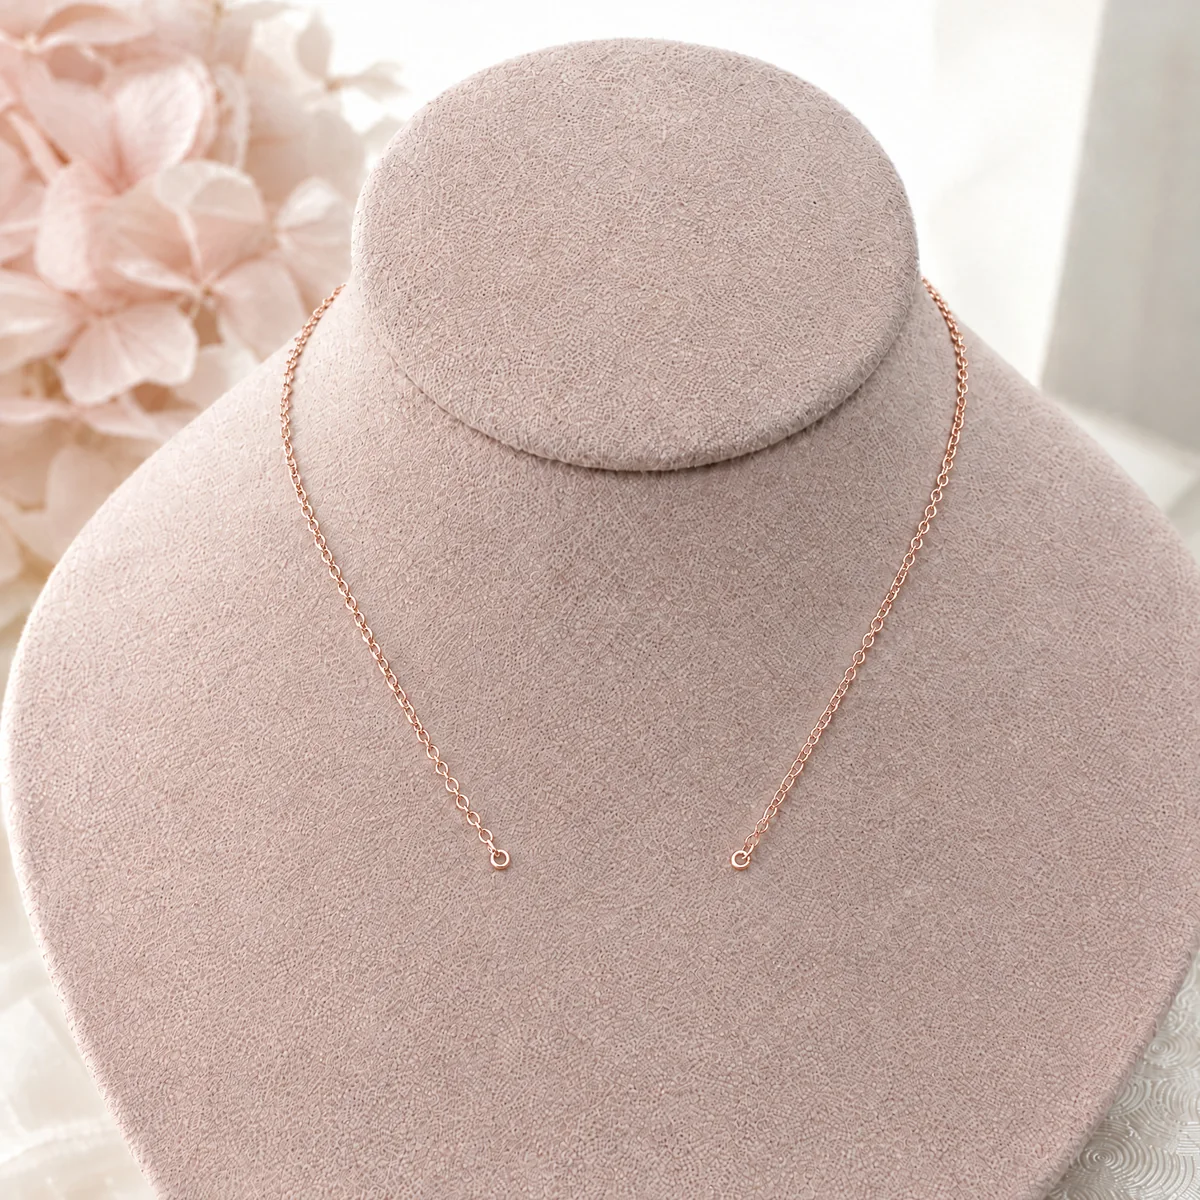
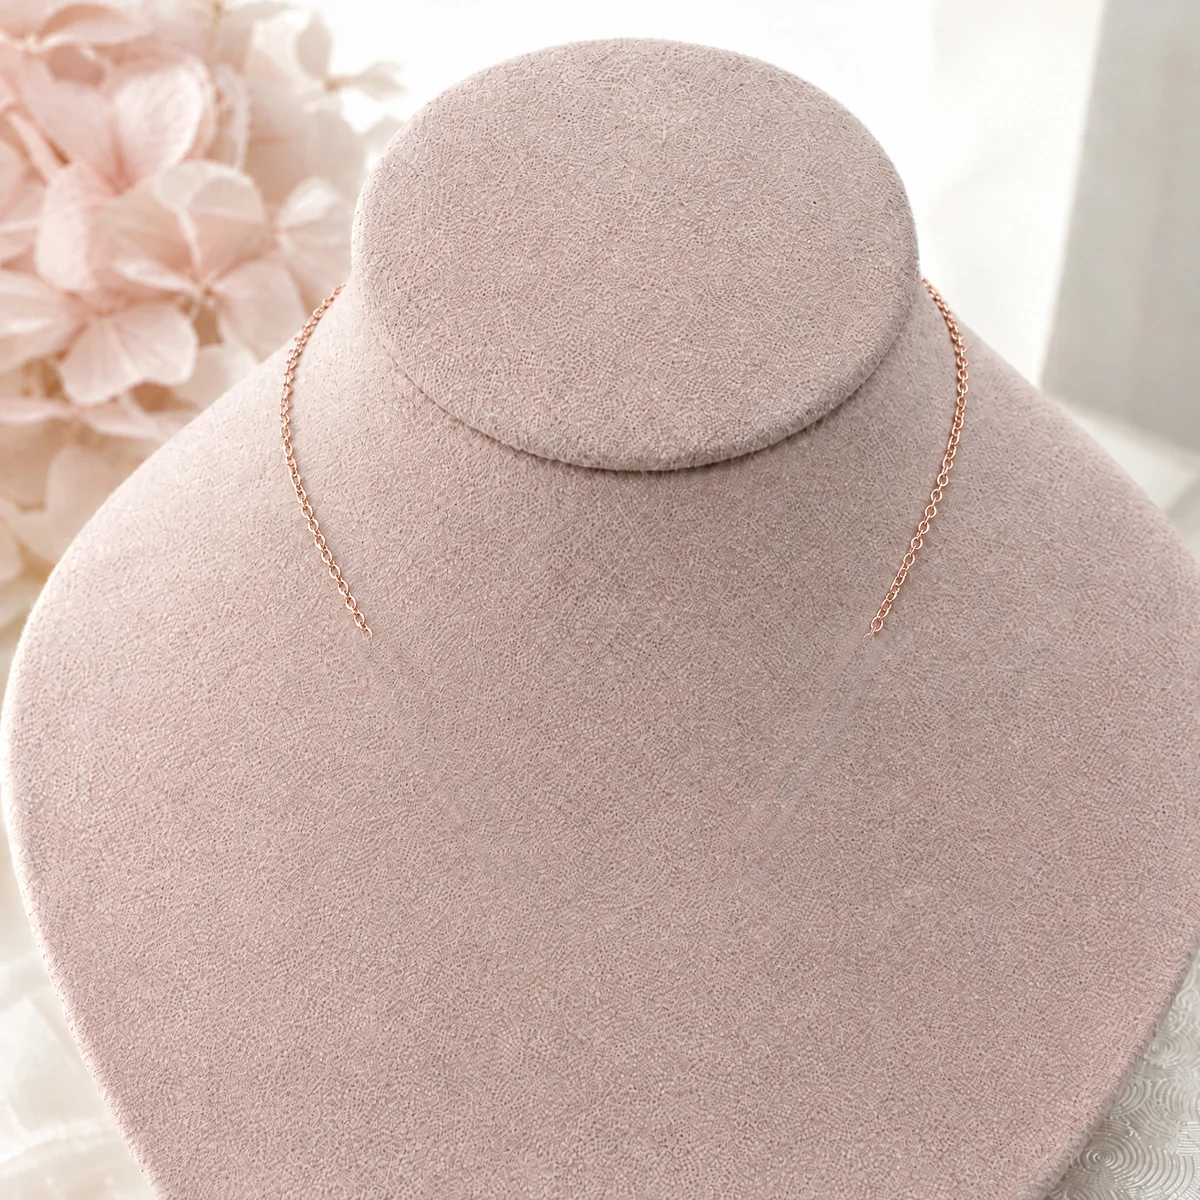
Collier prénom : la chaîne s'ouvre ou se resserre selon la longueur du prénom
Claude-Session: https://claude.ai/code/session_01LJGEE9ZZTXk46cNfc94DdH

diff --git a/theme-lou/assets/lou-produit.js b/theme-lou/assets/lou-produit.js
@@ -34,9 +34,12 @@
     scene.appendChild(bullePhoto);
   }
 
-  /* --- Collier prénom : prénom en métal accroché entre les deux anneaux de la chaîne ---
-     Anneaux mesurés sur assets/collier-vierge*.webp (1200 px) : gauche (501, 860), droite (740, 859), rayon ≈ 8. */
+  /* --- Collier prénom : prénom en métal, la chaîne s'accroche aux deux bords du prénom ---
+     Sur assets/collier-vierge*.webp (1200 px), le bas des deux brins est effacé (sous y ≈ 630, cf. scripts/assets_theme.py) :
+     les brins sont redessinés depuis la vraie chaîne jusqu'à la première et la dernière lettre. Prénom court : la chaîne se
+     resserre ; prénom long : elle s'ouvre. La taille des lettres ne dépend pas de la longueur du prénom. */
   var METAL = { "Argentée": ["#ffffff", "#d9dbe2", "#9a9eaa", "#eef0f4", "#7c808c"], "Dorée": ["#fff6d2", "#f0cd72", "#b88a2c", "#ffe7a3", "#8a6420"], "Rosée": ["#fff0ea", "#f2bfae", "#c4806f", "#ffd9cc", "#975c4f"] };
+  var BRIN = { g: { x: 361, y: 626, dx: .45 }, d: { x: 879, y: 626, dx: -.5 } };   // départ des brins redessinés + direction
   function dessinerPrenom(nom, pol) {
     if (!toile || !photo.complete || !photo.naturalWidth) return;
     var W = toile.clientWidth, dpr = Math.min(window.devicePixelRatio || 1, 2.5);
@@ -44,35 +47,63 @@
     var s = toile.width / 1200, ctx = toile.getContext("2d"); ctx.clearRect(0, 0, toile.width, toile.height);
     if (!nom) return;
     var m = METAL[finition] || METAL["Argentée"];
-    var G = { x: 501, y: 860 }, D = { x: 740, y: 859 }, rA = 8;
     var script = pol !== "Moderne", font = script ? '"Great Vibes", cursive' : '700 {t}px Montserrat, Arial, sans-serif';
     var css = function (t) { return script ? t + "px " + font : font.replace("{t}", t); };
     ctx.font = css(100);
     var mt = ctx.measureText(nom), L = mt.actualBoundingBoxLeft || 0, Rr = mt.actualBoundingBoxRight || mt.width;
     var asc = mt.actualBoundingBoxAscent || 70, desc = mt.actualBoundingBoxDescent || 20;
-    var largeurDispo = (D.x - G.x) - 2 * rA - 10, hMax = script ? 92 : 44;
-    var k = Math.min(largeurDispo / (L + Rr), hMax / (asc + desc), script ? 1.15 : .62);
-    var fs = 100 * k, encre = (L + Rr) * k, cx = (G.x + D.x) / 2;
-    var base = G.y + (script ? .2 : .36) * fs;
-    var xg = cx - encre / 2, xd = cx + encre / 2, yAttache = base - (script ? .22 : .36) * fs;
+    var hMax = script ? 92 : 44;
+    var k = Math.min(hMax / (asc + desc), script ? 1.15 : .62);
+    if ((L + Rr) * k > 560) k = 560 / (L + Rr);            // garde-fou (prénom très long) : reste sur le buste
+    var fs = 100 * k, encre = (L + Rr) * k, cx = 620.5;
+    var base = 860 + (script ? .2 : .36) * fs;
+    var xg = cx - encre / 2, yAttache = base - (script ? .22 : .36) * fs;
+    var px = xg + L * k;
+    // Bords réels du prénom à hauteur d'accroche (premier et dernier pixel d'encre)
+    var mes = document.createElement("canvas"); mes.width = 1200; mes.height = 1200; var mx = mes.getContext("2d");
+    mx.font = css(fs.toFixed(2)); mx.textBaseline = "alphabetic"; mx.lineJoin = "round"; mx.lineWidth = fs * (script ? .055 : .03);
+    mx.fillStyle = mx.strokeStyle = "#000"; mx.strokeText(nom, px, base); mx.fillText(nom, px, base);
+    var y0 = Math.max(0, Math.round(yAttache - fs * .16)), y1 = Math.min(1199, Math.round(yAttache + fs * .16));
+    var zx0 = Math.max(0, Math.floor(xg - 20)), zw = Math.min(1200 - zx0, Math.ceil(encre + 40));
+    var dat = mx.getImageData(zx0, y0, zw, y1 - y0 + 1).data, ag = null, ad = null;
+    for (var yy = 0; yy <= y1 - y0; yy++) for (var xx = 0; xx < zw; xx++) if (dat[(yy * zw + xx) * 4 + 3] > 140) {
+      if (!ag || xx + zx0 < ag.x) ag = { x: xx + zx0, y: yy + y0 };
+      if (!ad || xx + zx0 > ad.x) ad = { x: xx + zx0, y: yy + y0 };
+    }
+    ag = ag || { x: xg, y: yAttache }; ad = ad || { x: xg + encre, y: yAttache };
+    var rA = 6.5, RG = { x: ag.x - rA + 2, y: ag.y }, RD = { x: ad.x + rA - 2, y: ad.y };
     // calque métal (en pixels de l'image 1200, puis mis à l'échelle)
     var c = document.createElement("canvas"); c.width = toile.width; c.height = toile.height; var x = c.getContext("2d");
     x.scale(s, s);
-    // bouts de chaîne si le prénom est plus court que l'écart entre les anneaux
-    var chainette = function (a, bx, by) {
-      var dx = bx - a.x, dy = by - a.y, d = Math.hypot(dx, dy); if (d < 6) return;
-      var n = Math.floor(d / 6.5), ang = Math.atan2(dy, dx);
-      for (var i = 0; i < n; i++) {
-        var t = (i + .5) / n; x.save(); x.translate(a.x + dx * t, a.y + dy * t); x.rotate(ang);
-        x.beginPath(); x.ellipse(0, 0, 4.2, i % 2 ? 1.2 : 2.3, 0, 0, Math.PI * 2); x.lineWidth = 1.4; x.strokeStyle = m[2]; x.stroke(); x.restore();
+    // un brin : courbe douce depuis la vraie chaîne jusqu'à l'anneau, maillons alternés (à plat / de profil)
+    var brin = function (b, R) {
+      var dl = Math.hypot(R.x - b.x, R.y - b.y), n0 = Math.hypot(b.dx, 1);
+      var Q = { x: b.x + b.dx / n0 * dl * .5, y: b.y + 1 / n0 * dl * .5 };
+      var pt = function (t) { var u = 1 - t; return { x: u * u * b.x + 2 * u * t * Q.x + t * t * R.x, y: u * u * b.y + 2 * u * t * Q.y + t * t * R.y }; };
+      var tab = [{ t: 0, l: 0, p: pt(0) }], N = 200;
+      for (var i = 1; i <= N; i++) { var q = pt(i / N); tab.push({ t: i / N, l: tab[i - 1].l + Math.hypot(q.x - tab[i - 1].p.x, q.y - tab[i - 1].p.y), p: q }); }
+      var Lt = tab[N].l - rA, pas = 10.5, n = Math.max(1, Math.round(Lt / pas)); pas = Lt / n;
+      var j = 0;
+      for (var kk = 0; kk < n; kk++) {
+        var l = (kk + .5) * pas; while (j < N && tab[j + 1].l < l) j++;
+        var a = tab[j].p, bb = tab[Math.min(N, j + 1)].p, ang = Math.atan2(bb.y - a.y, bb.x - a.x);
+        x.save(); x.translate(a.x, a.y); x.rotate(ang);
+        var ry = kk % 2 ? 1.3 : 3.6;
+        // maillon métal : contour foncé, corps clair, reflet blanc (même éclat que la chaîne de la photo)
+        x.beginPath(); x.ellipse(0, 0, 6.3, ry, 0, 0, Math.PI * 2); x.lineWidth = 2.5; x.strokeStyle = m[4]; x.globalAlpha = .55; x.stroke(); x.globalAlpha = 1;
+        x.beginPath(); x.ellipse(0, 0, 6.3, ry, 0, 0, Math.PI * 2); x.lineWidth = 1.6; x.strokeStyle = m[1]; x.stroke();
+        x.beginPath(); x.ellipse(0, -.3, 6, Math.max(.6, ry - .3), 0, Math.PI * 1.1, Math.PI * 1.9); x.lineWidth = .9; x.strokeStyle = m[0]; x.stroke();
+        x.restore();
       }
+      // anneau d'accroche
+      x.beginPath(); x.arc(R.x, R.y, rA, 0, Math.PI * 2); x.lineWidth = 3; x.strokeStyle = m[4]; x.globalAlpha = .55; x.stroke(); x.globalAlpha = 1;
+      x.beginPath(); x.arc(R.x, R.y, rA, 0, Math.PI * 2); x.lineWidth = 2; x.strokeStyle = m[1]; x.stroke();
+      x.beginPath(); x.arc(R.x, R.y - .4, rA - .2, Math.PI * 1.1, Math.PI * 1.9); x.lineWidth = 1; x.strokeStyle = m[0]; x.stroke();
     };
-    chainette({ x: G.x + rA - 1, y: G.y }, xg + (script ? 4 : 1), yAttache);
-    chainette({ x: D.x - rA + 1, y: D.y }, xd - (script ? 4 : 1), yAttache);
+    brin(BRIN.g, RG); brin(BRIN.d, RD);
     x.font = css(fs.toFixed(2)); x.textBaseline = "alphabetic"; x.lineJoin = "round";
     var gr = x.createLinearGradient(0, base - asc * k, 0, base + desc * k);
     gr.addColorStop(0, m[0]); gr.addColorStop(.35, m[1]); gr.addColorStop(.6, m[3]); gr.addColorStop(1, m[2]);
-    var px = xg + L * k;
     x.lineWidth = fs * (script ? .055 : .03); x.strokeStyle = gr; x.fillStyle = gr;
     x.strokeText(nom, px, base); x.fillText(nom, px, base);
     // biseau : bord haut plus clair, bas plus sombre (copie décalée en « source-atop »)

diff --git a/theme/assets/lou-produit.js b/theme/assets/lou-produit.js
@@ -34,9 +34,12 @@
     scene.appendChild(bullePhoto);
   }
 
-  /* --- Collier prénom : prénom en métal accroché entre les deux anneaux de la chaîne ---
-     Anneaux mesurés sur assets/collier-vierge*.webp (1200 px) : gauche (501, 860), droite (740, 859), rayon ≈ 8. */
+  /* --- Collier prénom : prénom en métal, la chaîne s'accroche aux deux bords du prénom ---
+     Sur assets/collier-vierge*.webp (1200 px), le bas des deux brins est effacé (sous y ≈ 630, cf. scripts/assets_theme.py) :
+     les brins sont redessinés depuis la vraie chaîne jusqu'à la première et la dernière lettre. Prénom court : la chaîne se
+     resserre ; prénom long : elle s'ouvre. La taille des lettres ne dépend pas de la longueur du prénom. */
   var METAL = { "Argentée": ["#ffffff", "#d9dbe2", "#9a9eaa", "#eef0f4", "#7c808c"], "Dorée": ["#fff6d2", "#f0cd72", "#b88a2c", "#ffe7a3", "#8a6420"], "Rosée": ["#fff0ea", "#f2bfae", "#c4806f", "#ffd9cc", "#975c4f"] };
+  var BRIN = { g: { x: 361, y: 626, dx: .45 }, d: { x: 879, y: 626, dx: -.5 } };   // départ des brins redessinés + direction
   function dessinerPrenom(nom, pol) {
     if (!toile || !photo.complete || !photo.naturalWidth) return;
     var W = toile.clientWidth, dpr = Math.min(window.devicePixelRatio || 1, 2.5);
@@ -44,35 +47,63 @@
     var s = toile.width / 1200, ctx = toile.getContext("2d"); ctx.clearRect(0, 0, toile.width, toile.height);
     if (!nom) return;
     var m = METAL[finition] || METAL["Argentée"];
-    var G = { x: 501, y: 860 }, D = { x: 740, y: 859 }, rA = 8;
     var script = pol !== "Moderne", font = script ? '"Great Vibes", cursive' : '700 {t}px Montserrat, Arial, sans-serif';
     var css = function (t) { return script ? t + "px " + font : font.replace("{t}", t); };
     ctx.font = css(100);
     var mt = ctx.measureText(nom), L = mt.actualBoundingBoxLeft || 0, Rr = mt.actualBoundingBoxRight || mt.width;
     var asc = mt.actualBoundingBoxAscent || 70, desc = mt.actualBoundingBoxDescent || 20;
-    var largeurDispo = (D.x - G.x) - 2 * rA - 10, hMax = script ? 92 : 44;
-    var k = Math.min(largeurDispo / (L + Rr), hMax / (asc + desc), script ? 1.15 : .62);
-    var fs = 100 * k, encre = (L + Rr) * k, cx = (G.x + D.x) / 2;
-    var base = G.y + (script ? .2 : .36) * fs;
-    var xg = cx - encre / 2, xd = cx + encre / 2, yAttache = base - (script ? .22 : .36) * fs;
+    var hMax = script ? 92 : 44;
+    var k = Math.min(hMax / (asc + desc), script ? 1.15 : .62);
+    if ((L + Rr) * k > 560) k = 560 / (L + Rr);            // garde-fou (prénom très long) : reste sur le buste
+    var fs = 100 * k, encre = (L + Rr) * k, cx = 620.5;
+    var base = 860 + (script ? .2 : .36) * fs;
+    var xg = cx - encre / 2, yAttache = base - (script ? .22 : .36) * fs;
+    var px = xg + L * k;
+    // Bords réels du prénom à hauteur d'accroche (premier et dernier pixel d'encre)
+    var mes = document.createElement("canvas"); mes.width = 1200; mes.height = 1200; var mx = mes.getContext("2d");
+    mx.font = css(fs.toFixed(2)); mx.textBaseline = "alphabetic"; mx.lineJoin = "round"; mx.lineWidth = fs * (script ? .055 : .03);
+    mx.fillStyle = mx.strokeStyle = "#000"; mx.strokeText(nom, px, base); mx.fillText(nom, px, base);
+    var y0 = Math.max(0, Math.round(yAttache - fs * .16)), y1 = Math.min(1199, Math.round(yAttache + fs * .16));
+    var zx0 = Math.max(0, Math.floor(xg - 20)), zw = Math.min(1200 - zx0, Math.ceil(encre + 40));
+    var dat = mx.getImageData(zx0, y0, zw, y1 - y0 + 1).data, ag = null, ad = null;
+    for (var yy = 0; yy <= y1 - y0; yy++) for (var xx = 0; xx < zw; xx++) if (dat[(yy * zw + xx) * 4 + 3] > 140) {
+      if (!ag || xx + zx0 < ag.x) ag = { x: xx + zx0, y: yy + y0 };
+      if (!ad || xx + zx0 > ad.x) ad = { x: xx + zx0, y: yy + y0 };
+    }
+    ag = ag || { x: xg, y: yAttache }; ad = ad || { x: xg + encre, y: yAttache };
+    var rA = 6.5, RG = { x: ag.x - rA + 2, y: ag.y }, RD = { x: ad.x + rA - 2, y: ad.y };
     // calque métal (en pixels de l'image 1200, puis mis à l'échelle)
     var c = document.createElement("canvas"); c.width = toile.width; c.height = toile.height; var x = c.getContext("2d");
     x.scale(s, s);
-    // bouts de chaîne si le prénom est plus court que l'écart entre les anneaux
-    var chainette = function (a, bx, by) {
-      var dx = bx - a.x, dy = by - a.y, d = Math.hypot(dx, dy); if (d < 6) return;
-      var n = Math.floor(d / 6.5), ang = Math.atan2(dy, dx);
-      for (var i = 0; i < n; i++) {
-        var t = (i + .5) / n; x.save(); x.translate(a.x + dx * t, a.y + dy * t); x.rotate(ang);
-        x.beginPath(); x.ellipse(0, 0, 4.2, i % 2 ? 1.2 : 2.3, 0, 0, Math.PI * 2); x.lineWidth = 1.4; x.strokeStyle = m[2]; x.stroke(); x.restore();
+    // un brin : courbe douce depuis la vraie chaîne jusqu'à l'anneau, maillons alternés (à plat / de profil)
+    var brin = function (b, R) {
+      var dl = Math.hypot(R.x - b.x, R.y - b.y), n0 = Math.hypot(b.dx, 1);
+      var Q = { x: b.x + b.dx / n0 * dl * .5, y: b.y + 1 / n0 * dl * .5 };
+      var pt = function (t) { var u = 1 - t; return { x: u * u * b.x + 2 * u * t * Q.x + t * t * R.x, y: u * u * b.y + 2 * u * t * Q.y + t * t * R.y }; };
+      var tab = [{ t: 0, l: 0, p: pt(0) }], N = 200;
+      for (var i = 1; i <= N; i++) { var q = pt(i / N); tab.push({ t: i / N, l: tab[i - 1].l + Math.hypot(q.x - tab[i - 1].p.x, q.y - tab[i - 1].p.y), p: q }); }
+      var Lt = tab[N].l - rA, pas = 10.5, n = Math.max(1, Math.round(Lt / pas)); pas = Lt / n;
+      var j = 0;
+      for (var kk = 0; kk < n; kk++) {
+        var l = (kk + .5) * pas; while (j < N && tab[j + 1].l < l) j++;
+        var a = tab[j].p, bb = tab[Math.min(N, j + 1)].p, ang = Math.atan2(bb.y - a.y, bb.x - a.x);
+        x.save(); x.translate(a.x, a.y); x.rotate(ang);
+        var ry = kk % 2 ? 1.3 : 3.6;
+        // maillon métal : contour foncé, corps clair, reflet blanc (même éclat que la chaîne de la photo)
+        x.beginPath(); x.ellipse(0, 0, 6.3, ry, 0, 0, Math.PI * 2); x.lineWidth = 2.5; x.strokeStyle = m[4]; x.globalAlpha = .55; x.stroke(); x.globalAlpha = 1;
+        x.beginPath(); x.ellipse(0, 0, 6.3, ry, 0, 0, Math.PI * 2); x.lineWidth = 1.6; x.strokeStyle = m[1]; x.stroke();
+        x.beginPath(); x.ellipse(0, -.3, 6, Math.max(.6, ry - .3), 0, Math.PI * 1.1, Math.PI * 1.9); x.lineWidth = .9; x.strokeStyle = m[0]; x.stroke();
+        x.restore();
       }
+      // anneau d'accroche
+      x.beginPath(); x.arc(R.x, R.y, rA, 0, Math.PI * 2); x.lineWidth = 3; x.strokeStyle = m[4]; x.globalAlpha = .55; x.stroke(); x.globalAlpha = 1;
+      x.beginPath(); x.arc(R.x, R.y, rA, 0, Math.PI * 2); x.lineWidth = 2; x.strokeStyle = m[1]; x.stroke();
+      x.beginPath(); x.arc(R.x, R.y - .4, rA - .2, Math.PI * 1.1, Math.PI * 1.9); x.lineWidth = 1; x.strokeStyle = m[0]; x.stroke();
     };
-    chainette({ x: G.x + rA - 1, y: G.y }, xg + (script ? 4 : 1), yAttache);
-    chainette({ x: D.x - rA + 1, y: D.y }, xd - (script ? 4 : 1), yAttache);
+    brin(BRIN.g, RG); brin(BRIN.d, RD);
     x.font = css(fs.toFixed(2)); x.textBaseline = "alphabetic"; x.lineJoin = "round";
     var gr = x.createLinearGradient(0, base - asc * k, 0, base + desc * k);
     gr.addColorStop(0, m[0]); gr.addColorStop(.35, m[1]); gr.addColorStop(.6, m[3]); gr.addColorStop(1, m[2]);
-    var px = xg + L * k;
     x.lineWidth = fs * (script ? .055 : .03); x.strokeStyle = gr; x.fillStyle = gr;
     x.strokeText(nom, px, base); x.fillText(nom, px, base);
     // biseau : bord haut plus clair, bas plus sombre (copie décalée en « source-atop »)

diff --git a/scripts/assets_theme.py b/scripts/assets_theme.py
@@ -73,12 +73,45 @@ for nom, dest in [("produit-jonc-vierge-hd", "jonc-carre.webp"), ("produit-jonc-
     im = Image.open(trouver(nom)).convert("RGB"); k = im.width / 1024
     enregistrer(im.crop((round(90 * k), round(104 * k), round(1010 * k), round(1024 * k))), dest, 1200, 84)
 
-# Collier prénom (aperçu en direct) : chaîne sans pendentif, 3 finitions, si elles existent
+# Collier prénom (aperçu en direct) : chaîne sans pendentif, 3 finitions. Le bas des deux brins (sous y = 640, anneaux
+# compris) est effacé : le thème redessine les brins jusqu'aux bords du prénom, qui s'écartent ou se resserrent selon
+# sa longueur (lou-produit.js, BRIN_G / BRIN_D). Brins mesurés sur l'image 1200 px (identiques dans les 3 finitions).
+BRIN_G = [(626, 361), (640, 367), (680, 394), (720, 411), (760, 437), (800, 466), (840, 490), (860, 501)]
+BRIN_D = [(626, 879), (640, 872), (680, 849), (720, 829), (760, 803), (800, 783), (840, 757), (860, 740)]
+
+
+def effacer_bas_chaine(im):
+    """Efface le bas des brins : velours recopié à côté (vers l'intérieur du V), puis lumière corrigée pour qu'il se fonde."""
+    import numpy as np
+    from PIL import ImageFilter
+    a = np.asarray(im, dtype=float)
+    out = a.copy()
+    flou = lambda x, r: np.stack([np.asarray(Image.fromarray(np.clip(x[..., c], 0, 255).astype("uint8")).filter(ImageFilter.GaussianBlur(r)), dtype=float) for c in range(3)], axis=-1)
+    for brin, decal in ((BRIN_G, 30), (BRIN_D, -30)):
+        m = Image.new("L", im.size, 0); d = ImageDraw.Draw(m)
+        d.line([(x, y) for y, x in brin], fill=255, width=26, joint="curve")
+        y, x = brin[-1]; d.ellipse((x - 16, y - 16, x + 16, y + 16), fill=255)
+        dur = np.asarray(m, dtype=float) / 255
+        m = np.asarray(m.filter(ImageFilter.GaussianBlur(1.5)), dtype=float) / 255
+        rampe = np.clip((np.arange(a.shape[0]) - 626) / 18, 0, 1)[:, None]   # la vraie chaîne s'efface en douceur
+        m = m * rampe
+        source = np.roll(out, -decal, axis=1)
+        # correction de lumière : moyenne locale du velours autour du brin (hors brin) contre celle de la source
+        hors = (dur < .01)[..., None]
+        poids = flou(hors.repeat(3, axis=2) * 255.0, 18) / 255 + 1e-3
+        fond = flou(out * hors, 18) / poids
+        src_m = flou(source, 18)
+        source = source + (fond - src_m)
+        out = out * (1 - m[..., None]) + source * m[..., None]
+    return Image.fromarray(np.clip(out, 0, 255).astype("uint8"))
+
+
 for nom, dest in [("collier-prenom-vierge-hd", "collier-vierge.webp"), ("collier-prenom-vierge-doree-hd", "collier-vierge-doree.webp"),
                   ("collier-prenom-vierge-rosee-hd", "collier-vierge-rosee.webp")]:
     src = trouver(nom)
     if "vierge" in os.path.basename(src):
-        enregistrer(Image.open(src).convert("RGB"), dest, 1200, 84)
+        im = Image.open(src).convert("RGB").resize((1200, 1200), Image.LANCZOS)
+        enregistrer(effacer_bas_chaine(im), dest, 1200, 84)
 
 # Collier photo (aperçu en direct) : photo produit HD, la photo de la cliente se pose dans la bulle
 enregistrer(Image.open(trouver("produit-collier-photo-1-hd", "produit-collier-photo-1")).convert("RGB"), "collier-photo.webp", 1200, 84)

diff --git a/docs/journal.md b/docs/journal.md
@@ -114,3 +114,14 @@
 - Tests banc (iPhone 13 + ordinateur) : 15 pages OK, aucune erreur JS, pas de débordement ; parcours testé (texte, finition,
   police, photo, validation, ajout au panier, tiroir, assistante, FAQ, menu). Thème envoyé : 64 fichiers, 0 erreur.
 - Captures : `docs/captures/v2-*`.
+
+## 2026-11-02 (nuit, suite) — Collier prénom : la chaîne s'adapte à la longueur du prénom
+- Demande utilisateur (capture iPhone) : dans l'aperçu, la chaîne doit toucher les deux bords du prénom, s'ouvrir pour un
+  prénom long et se resserrer pour un prénom court — sans rien changer d'autre (taille des lettres comprise).
+- `assets_theme.py` : le bas des deux brins (sous y ≈ 630, anneaux compris) est effacé des 3 photos `collier-vierge*.webp`
+  (velours recopié 30 px à côté + correction de lumière). Brins mesurés : gauche (640, 367) → (860, 501), droite
+  (640, 872) → (860, 740), identiques dans les 3 finitions.
+- `lou-produit.js` : les brins sont redessinés maillon par maillon (même éclat que la vraie chaîne) depuis la chaîne de la
+  photo jusqu'à un anneau posé sur le premier et le dernier pixel du prénom ; plus de limite de largeur (garde-fou à
+  560 px seulement), formule de taille des lettres inchangée. Testé : je, Lou, Emma, Chloé, Marguerite, Léa ; 3 finitions,
+  2 polices ; aucune erreur. Envoyé sur le thème en ligne. Capture : `docs/captures/collier-chaine-adaptee.jpg`.
